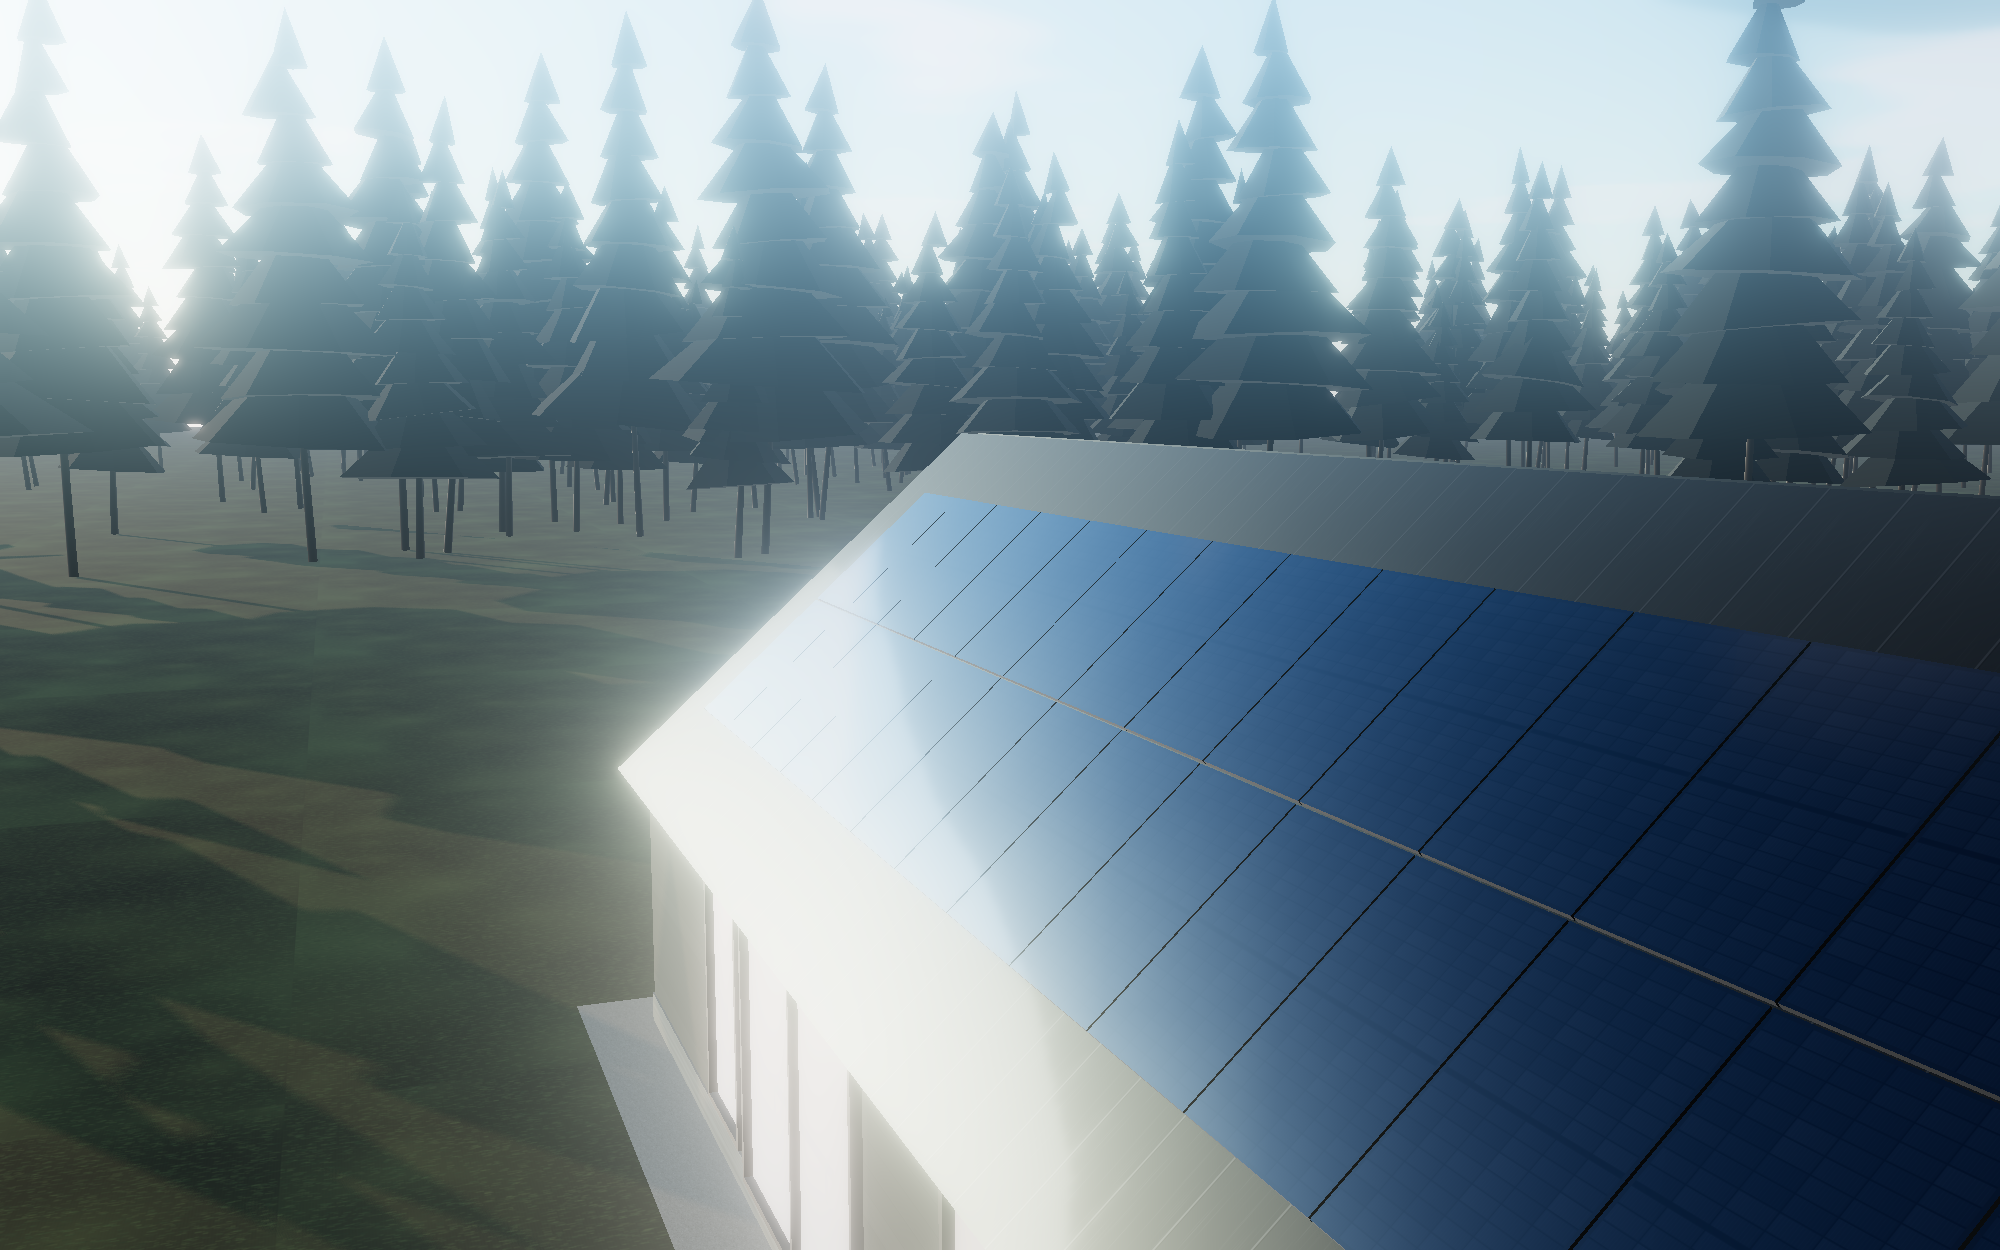
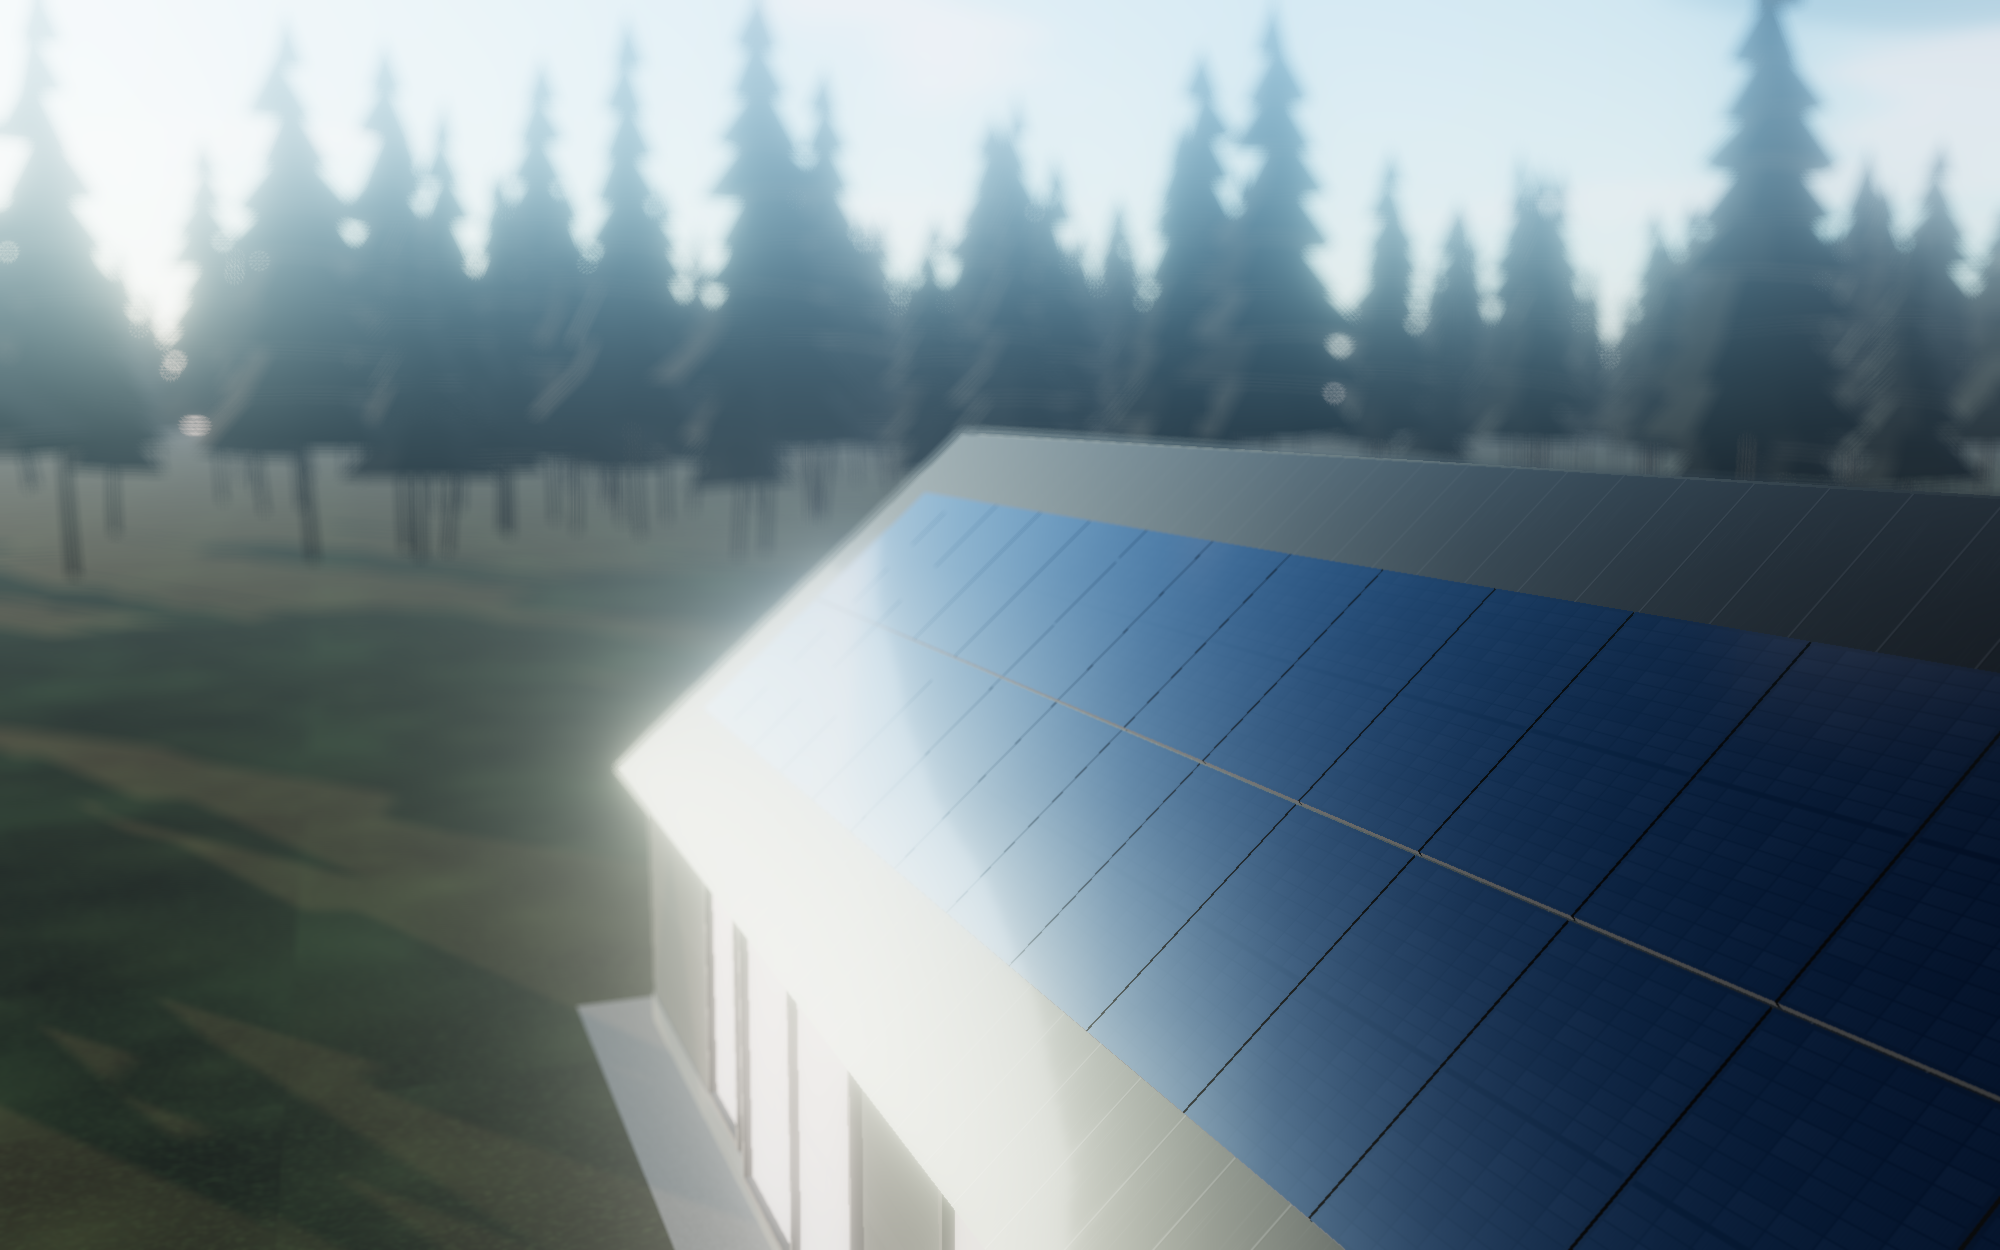
Polish: depth-of-field renders, mobile cookie dialog, form units, header fit for RU, contrast
Claude-Session: https://claude.ai/code/session_01PceWPYcK1aacFeji1oji8s

diff --git a/aidex-lv/render/scenes.js b/aidex-lv/render/scenes.js
@@ -7,6 +7,7 @@ import { EffectComposer } from 'three/addons/postprocessing/EffectComposer.js';
 import { RenderPass } from 'three/addons/postprocessing/RenderPass.js';
 import { UnrealBloomPass } from 'three/addons/postprocessing/UnrealBloomPass.js';
 import { OutputPass } from 'three/addons/postprocessing/OutputPass.js';
+import { BokehPass } from 'three/addons/postprocessing/BokehPass.js';
 import { RoundedBoxGeometry } from 'three/addons/geometries/RoundedBoxGeometry.js';
 
 const params = new URLSearchParams(location.search);
@@ -507,11 +508,12 @@ function roundedBox(w, h, d, r, mat) {
 }
 
 // ---------- composer ----------
-function render({ bloom = 0.25, radius = 0.6, threshold = 0.85 } = {}) {
+function render({ bloom = 0.25, radius = 0.6, threshold = 0.85, focus = 0, aperture = 0.00006, maxblur = 0.006 } = {}) {
   const comp = new EffectComposer(renderer);
   comp.setSize(W, H);
   comp.addPass(new RenderPass(scene, camera));
   if (bloom > 0) comp.addPass(new UnrealBloomPass(new THREE.Vector2(W, H), bloom, radius, threshold));
+  if (focus > 0) comp.addPass(new BokehPass(scene, camera, { focus, aperture, maxblur }));
   comp.addPass(new OutputPass());
   comp.render();
   document.title = 'done';
@@ -532,7 +534,7 @@ const scenes = {
     camera.fov = 30; camera.position.set(24, 2.0, 27); camera.lookAt(-1.5, 3.9, 0);
     if (H > W) { camera.fov = 46; camera.position.set(8, 1.8, 24); camera.lookAt(2, 3.8, 0); }
     camera.updateProjectionMatrix();
-    render({ bloom: 0 });
+    render({ bloom: 0, focus: H > W ? 25 : 35, aperture: 0.00014, maxblur: 0.01 });
   },
   roof() {
     seed = 7;
@@ -545,7 +547,7 @@ const scenes = {
     forest({ inner: 60, outer: 190, count: 1000, color: 0x13201a });
     camera.fov = 40; camera.position.set(10.5, 7.3, 7.2); camera.lookAt(-4, 5.2, 1.6);
     camera.updateProjectionMatrix();
-    render({ bloom: 0.2, threshold: 0.9 });
+    render({ bloom: 0.2, threshold: 0.9, focus: 9, aperture: 0.0004, maxblur: 0.012 });
   },
   night() {
     seed = 1337;
@@ -561,7 +563,7 @@ const scenes = {
     const pl = new THREE.PointLight(0xffb070, 30, 14, 2); pl.position.set(9.5, 1.2, 1); scene.add(pl);
     camera.fov = 32; camera.position.set(25, 1.7, 23); camera.lookAt(-3.2, 4.1, 0);
     camera.updateProjectionMatrix();
-    render({ bloom: 0.55, radius: 0.6, threshold: 0.6 });
+    render({ bloom: 0.55, radius: 0.6, threshold: 0.6, focus: 32, aperture: 0.00018, maxblur: 0.012 });
   },
   commercial() {
     seed = 99;
@@ -590,7 +592,7 @@ const scenes = {
     forest({ inner: 130, outer: 420, count: 1600, color: 0x1a2c20 });
     camera.fov = 34; camera.position.set(58, 14, 44); camera.lookAt(-10, 0, -20);
     camera.updateProjectionMatrix();
-    render({ bloom: 0.15, threshold: 0.92 });
+    render({ bloom: 0.15, threshold: 0.92, focus: 50, aperture: 0.00008, maxblur: 0.008 });
   },
   battery() {
     seed = 3;
@@ -659,7 +661,7 @@ const scenes = {
     if (portrait) { camera.fov = 44; camera.position.set(19, 1.6, 20); camera.lookAt(2.5, 3.6, 0); }
     else { camera.fov = 32; camera.position.set(25, 1.7, 23); camera.lookAt(-3.2, 4.1, 0); }
     camera.updateProjectionMatrix();
-    render({ bloom: 0.28, radius: 0.55, threshold: 0.92 });
+    render({ bloom: 0.28, radius: 0.55, threshold: 0.92, focus: H > W ? 27 : 32, aperture: 0.00018, maxblur: 0.012 });
   },
 };
 

diff --git a/aidex-lv/src/styles/global.css b/aidex-lv/src/styles/global.css
@@ -17,7 +17,7 @@
   --stone: #d8d3c7;
   --white: #ffffff;
   --muted: #5d655f;
-  --muted-2: #8a918b;
+  --muted-2: #6c736d;
   --line: rgba(11, 20, 16, 0.12);
   --line-strong: rgba(11, 20, 16, 0.22);
   --line-inv: rgba(255, 255, 255, 0.14);
